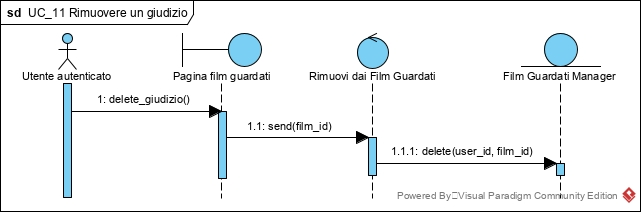
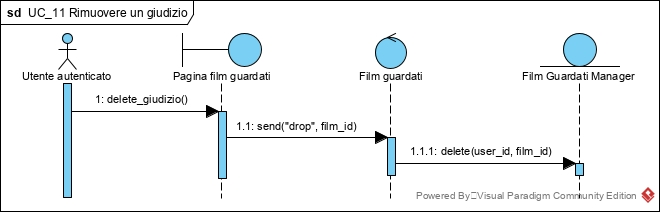
Introduzione control object model

diff --git a/Deliverables/Requirements Analysis Documents.md b/Deliverables/Requirements Analysis Documents.md
@@ -540,7 +540,8 @@ Flusso di eventi | <br/><ol><li>L’utente accede alla funzionalità di suggerim
 Condizione di uscita | Il film selezionato verrà suggerito.
 
 ## Object model
-Boundary objects:
+
+###Boundary objects
 * **Area di ricerca**: offre le funzioni di ricerca di film, artisti e utenti
 * **Risultati di ricerca**: presenta i risultati elaborati dopo una ricerca
 * **Pagina film**: mostra le informazioni di un film
@@ -572,6 +573,22 @@ determinato film deve essere presente
 * **Form di selezione amici**: richiede la selezione di almeno uno tra i propri amici
 * **Pagina di suggerimento automatico**: permette di richiedere il suggerimento automatico di un film sconosciuto
 * **Area di presentazione film**: suggerisce un film
+
+### Control objects
+* **Ricerca**: permette di ricercare film, artisti e utenti **(movies, artists, users)**
+* **Redirect**: offre servizi di redirect via browser
+* **Registrazione**: permette di registrare un account, controllando prima la correttezza dei campi inseriti
+* **Guarda più tardi**: aggiunge un film nei "Guarda più tardi" **(add, ...)**
+* **Accesso**: permette di autenticare un account se si conoscono e-mail e password annessi
+* **Richiesta cambio password**: effettua la richiesta di cambio password
+* **Conferma cambio password**: effettua la conferma di cambio password
+* **Amicizie**: richiede, accetta e rifiuta le amicizie **(request, accept, refuse)**
+* **Film guardati**: aggiunge, modifica e rimuove il giudizio di un film **(add, edit, drop)**
+* **Liste**: crea, modifica, cancella una lista. Permette a un account di seguire una lista. Inoltre, fornendo un film
+e una collezione di liste possedute da un account, inserisce questo film solo nelle liste fornite, rimuovendolo (se
+presente) in tutte le altre. **(create, modify, delete, follow, absolute_presence)**
+* **Suggerimenti amici**: permette ad un account di suggerire un film a uno o più account amici
+* **Suggerimenti automatici**: suggerisce un film ad un account in base alle sue preferenze cinematografiche
 
 ## Sequence diagrams
 
